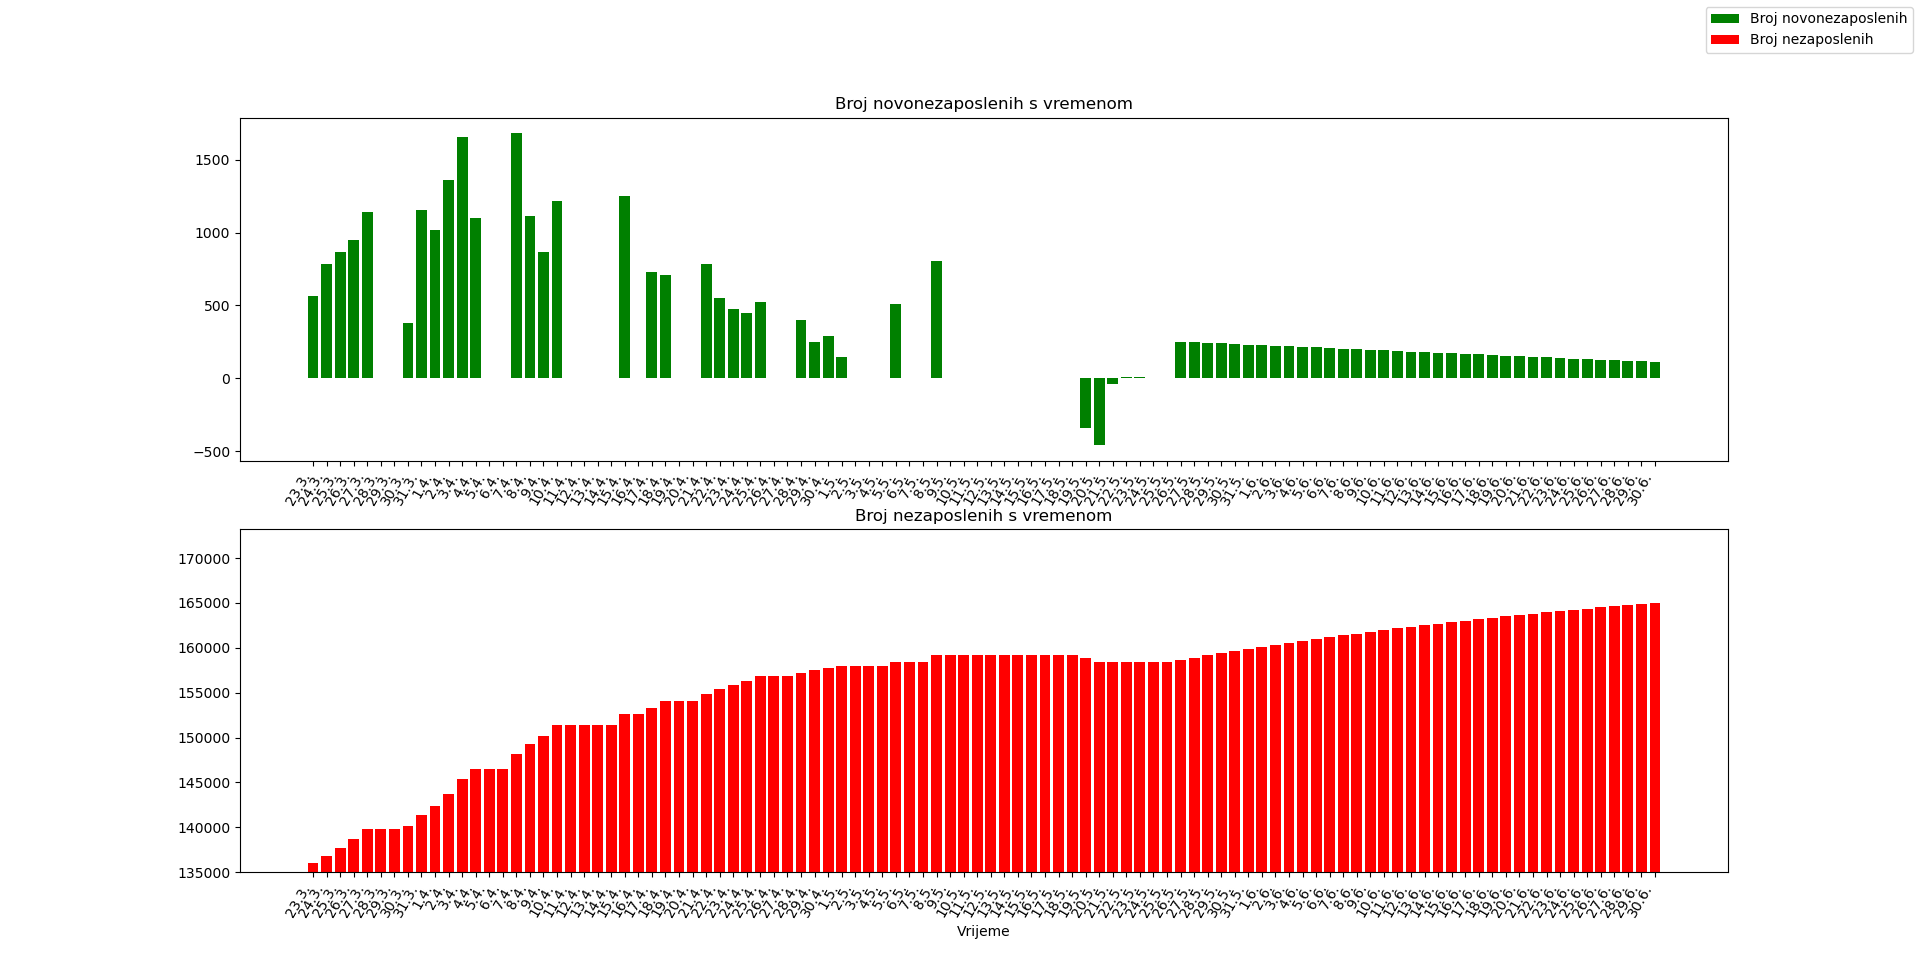
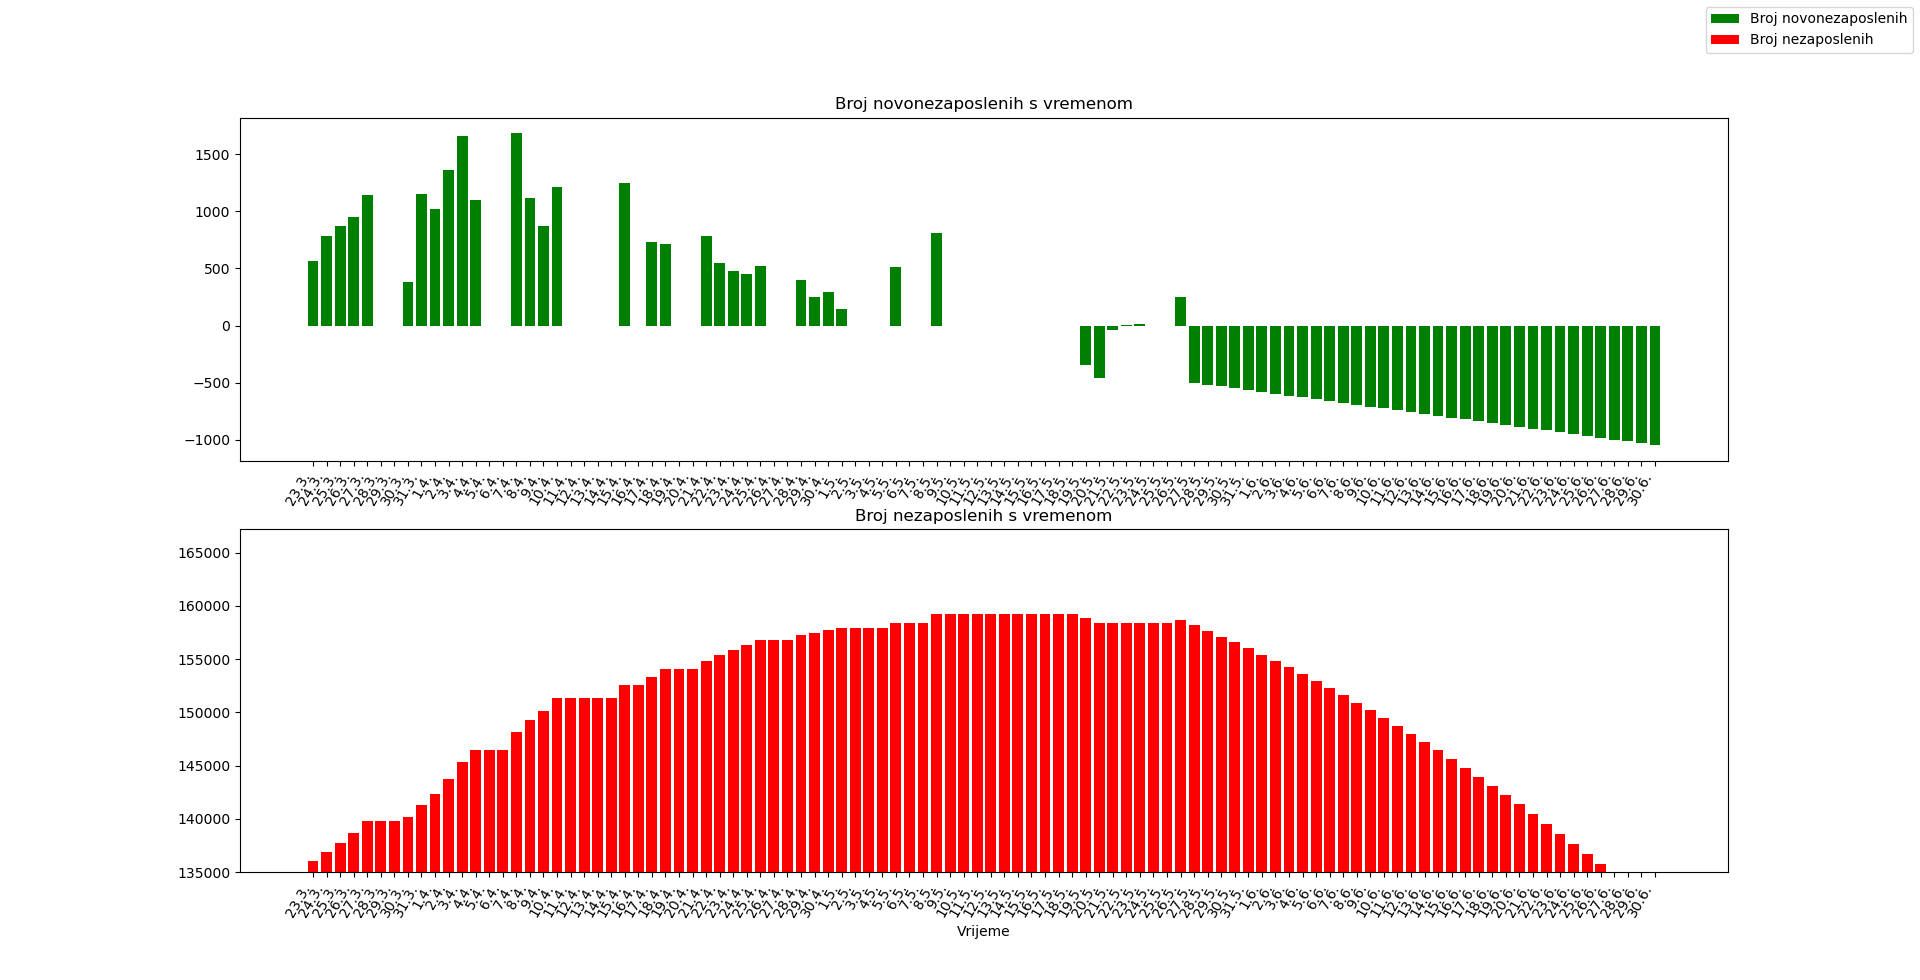
Nezaposlenost update 27.5.

diff --git a/nezaposlenost.py b/nezaposlenost.py
@@ -14,7 +14,7 @@ datumi = ['23.3.', '24.3.', '25.3.', '26.3.', '27.3.', '28.3.', '29.3.', '30.3.'
 
 broj_novonez = [565, 784, 867, 951, 1140, 0, 0, 382, 1153, 1019, 1358, 1658, 1098, 0, 0, 1682, 1115, 867, 1215, 0, 0, 0,
                 0, 1249, 0, 728, 711, 0, 0, 787, 550, 474, 447, 524, 0, 0, 401, 251, 292, 147, 0, 0, 0, 508, 0, 0, 806,
-                0, 0, 0, 0, 0, 0, 0, 0, 0, 0, -343, -457, -41, 9, 12, 0, 0, 252]
+                0, 0, 0, 0, 0, 0, 0, 0, 0, 0, -343, -457, -41, 9, 12, 0, 0, 252, -500]
 osn_broj_nez = 136071
 broj_nez = [136071]
 
